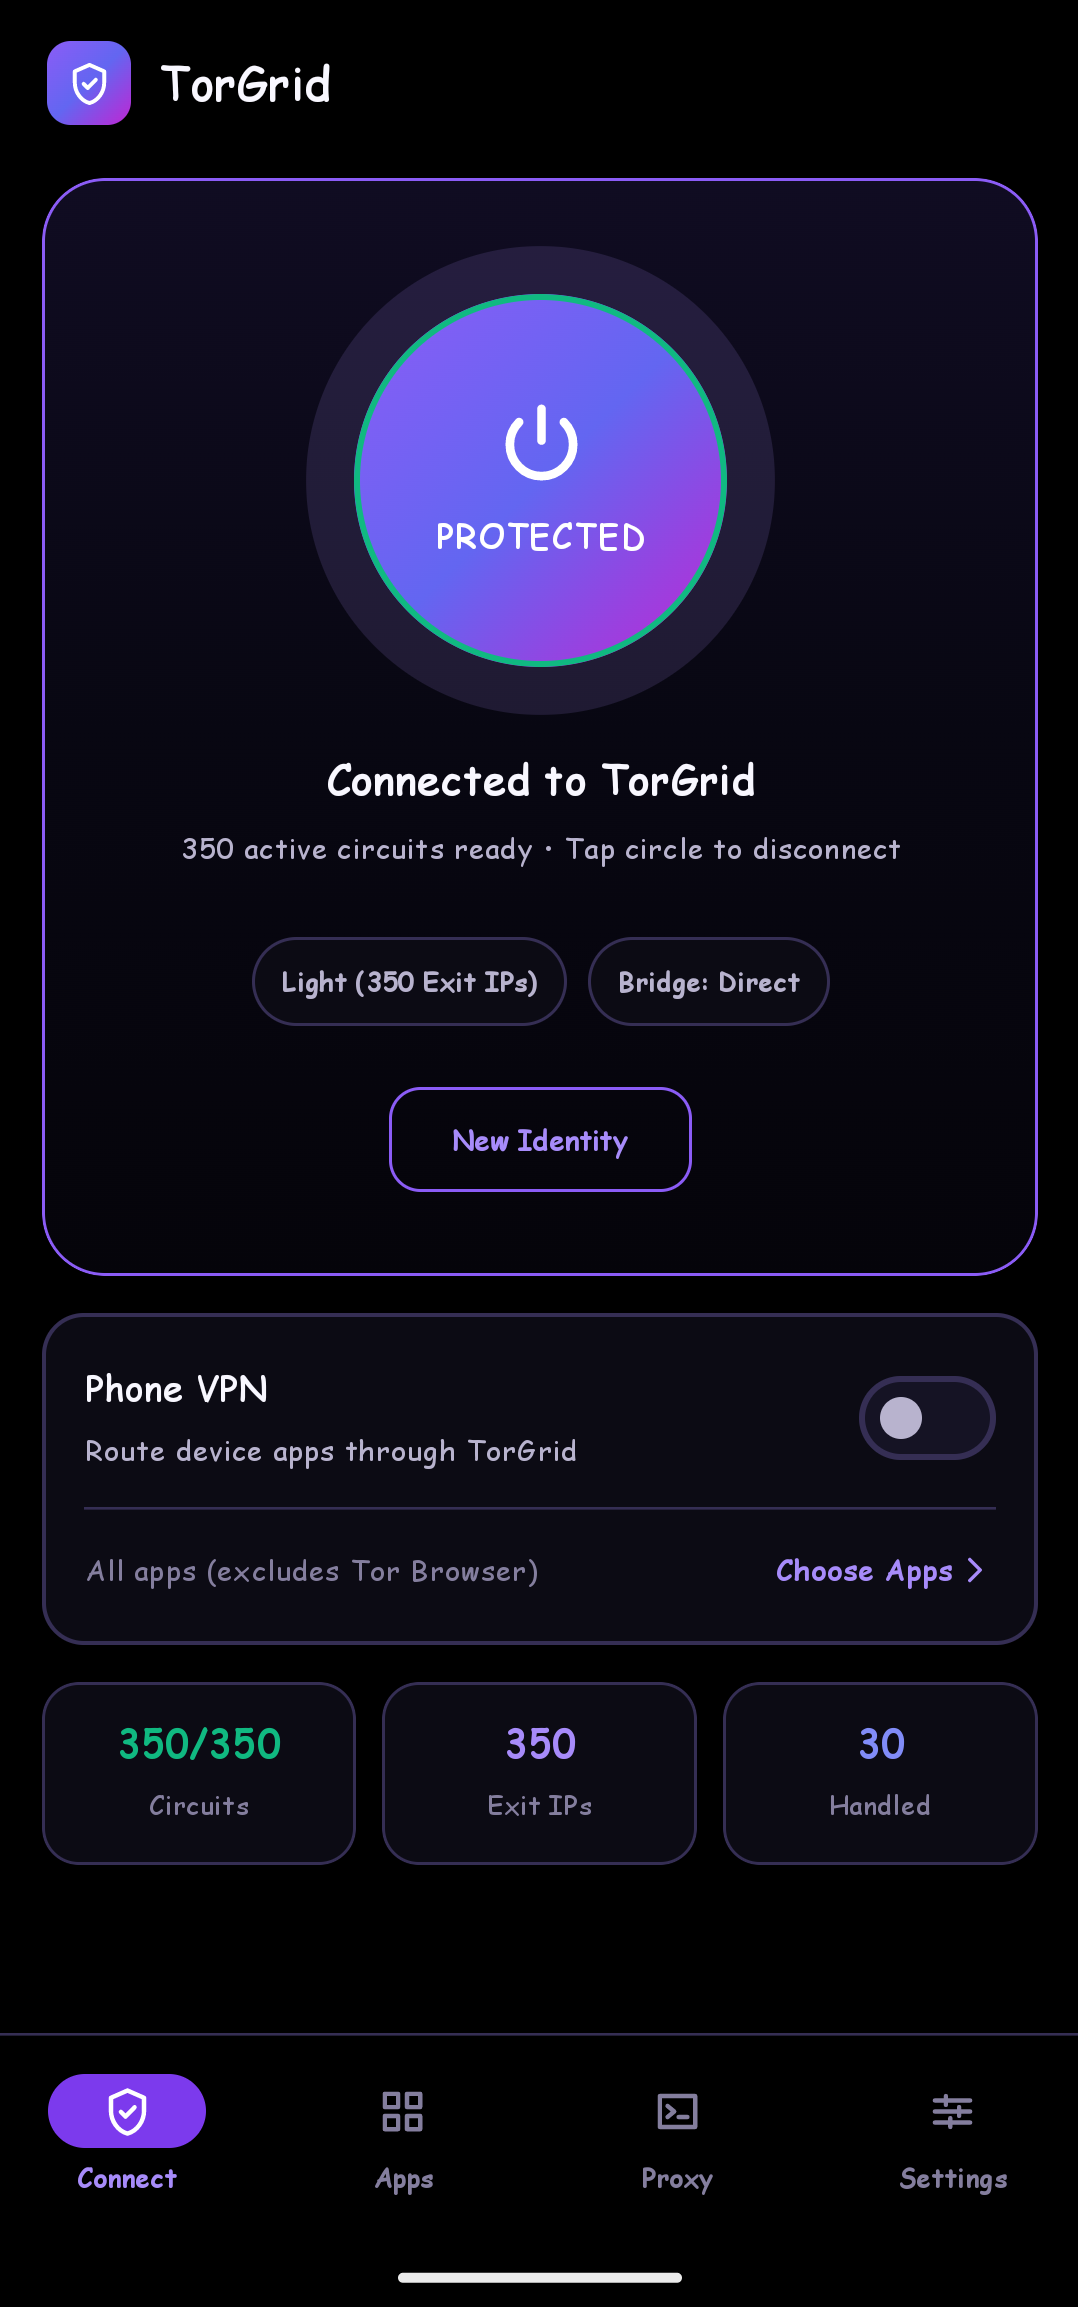
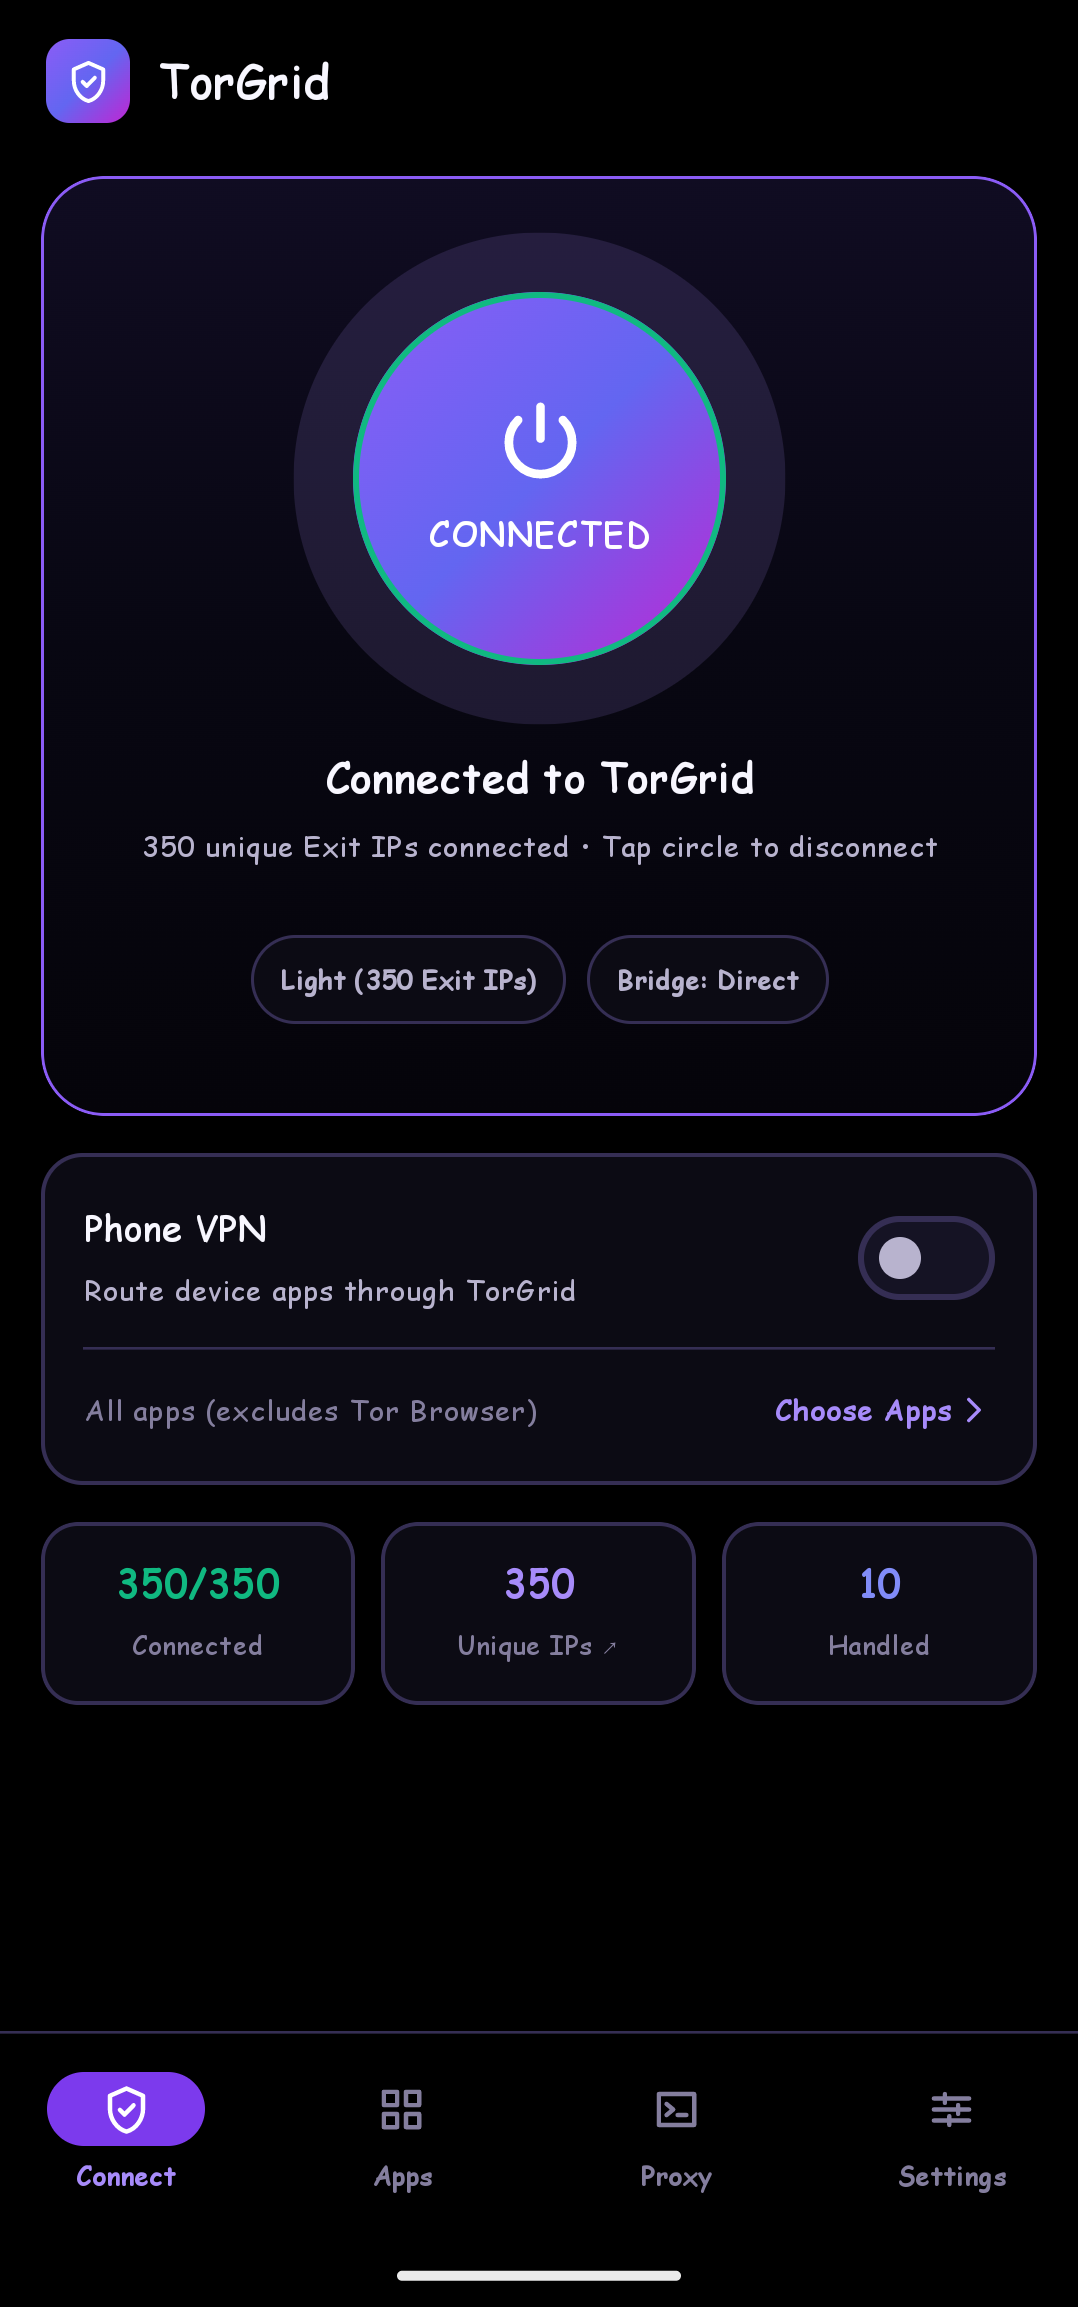
Update screenshots and docs after removing New Identity

diff --git a/README.md b/README.md
@@ -85,7 +85,7 @@ chmod +x torgrid-linux-amd64
 
 ### 3. Windows PC (`torgrid-windows-amd64.exe` — System Tray Mode)
 1. Ensure **Tor Browser** is installed *or* extract `tor.exe` from the official [Tor Expert Bundle](https://www.torproject.org/download/tor/) into the same folder as `torgrid-windows-amd64.exe` (or in `PATH`).
-2. Double-click **`torgrid-windows-amd64.exe`** — runs silently in your **Windows System Tray** (zero terminal window) showing your active proxy IP (`127.0.0.1` or Wi-Fi LAN IP), Connect/Disconnect, Grid Size, and Share on Wi-Fi LAN switch.
+2. Double-click **`torgrid-windows-amd64.exe`** — runs silently in your **Windows System Tray** (zero terminal window) showing your active proxy IP (`127.0.0.1` or Wi-Fi LAN IP), Connect/Disconnect, Share on Wi-Fi LAN switch, and 1-click Web Dashboard.
 
 ### 4. Using the Proxy from Any App, Browser, or Script
 ```bash
